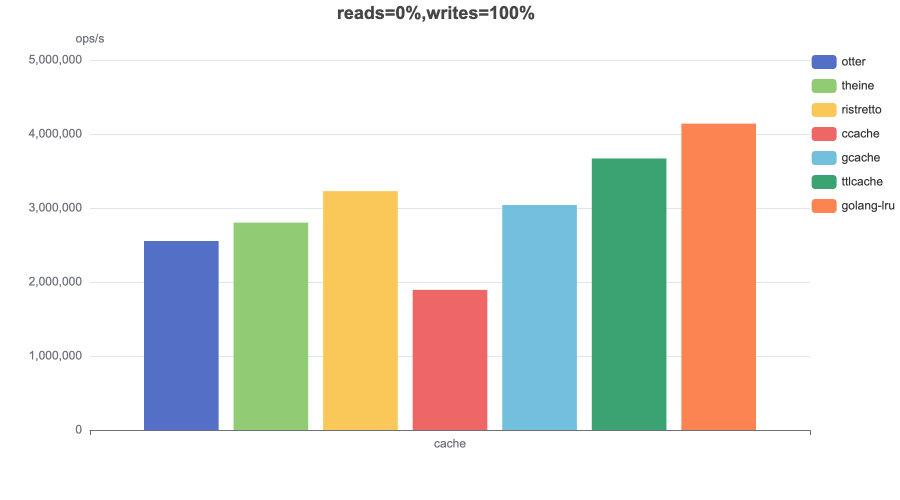
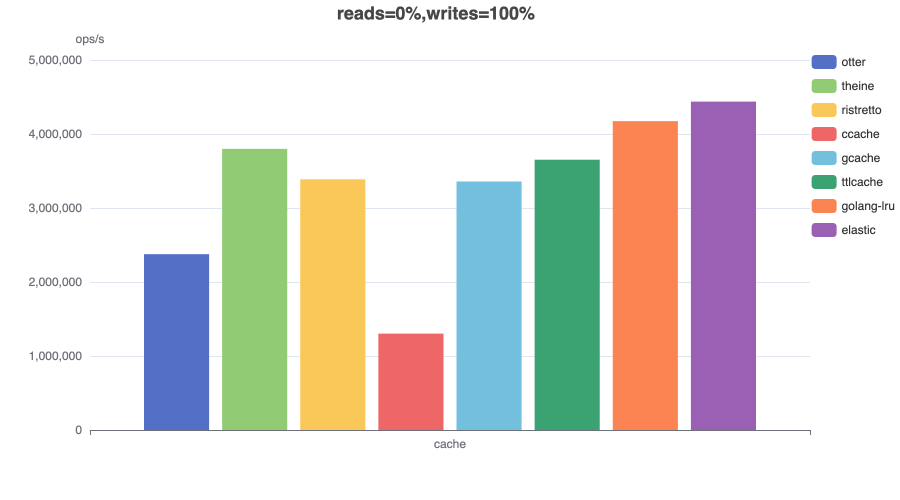
Added a test for elastic go-freelru cache

diff --git a/client/elastic.go b/client/elastic.go
@@ -1,0 +1,43 @@
+package client
+
+import (
+	"time"
+
+	"github.com/cespare/xxhash/v2"
+	"github.com/elastic/go-freelru"
+)
+
+type Elastic[V any] struct {
+	client freelru.Cache[string, V]
+}
+
+// more hash function in https://github.com/elastic/go-freelru/blob/main/bench/hash.go
+func hashStringXXHASH(s string) uint32 {
+	return uint32(xxhash.Sum64String(s)) //nolint:golint,gosec,gocritic
+}
+
+func (c *Elastic[V]) Init(capacity int) {
+	client, err := freelru.NewSynced[string, V](uint32(capacity), hashStringXXHASH) //nolint:golint,gosec,gocritic
+	if err != nil {
+		panic(err)
+	}
+	client.SetLifetime(1 * time.Hour)
+	c.client = client
+}
+
+func (c *Elastic[V]) Name() string {
+	return "elastic"
+}
+
+func (c *Elastic[V]) Get(key string) (V, bool) {
+	return c.client.Get(key)
+}
+
+func (c *Elastic[V]) Set(key string, value V) {
+	c.client.Add(key, value)
+}
+
+func (c *Elastic[V]) Close() {
+	c.client.Purge()
+	c.client = nil
+}

diff --git a/client/ristretto.go b/client/ristretto.go
@@ -4,14 +4,15 @@ import (
 	"time"
 
 	"github.com/dgraph-io/ristretto"
+	"github.com/dgraph-io/ristretto/z"
 )
 
-type Ristretto[K comparable, V any] struct {
-	client *ristretto.Cache
+type Ristretto[K z.Key, V any] struct {
+	client *ristretto.Cache[K, V]
 }
 
 func (c *Ristretto[K, V]) Init(capacity int) {
-	client, err := ristretto.NewCache(&ristretto.Config{
+	client, err := ristretto.NewCache[K, V](&ristretto.Config[K, V]{
 		NumCounters:        int64(capacity * 10),
 		MaxCost:            int64(capacity),
 		BufferItems:        64,
@@ -28,12 +29,7 @@ func (c *Ristretto[K, V]) Name() string {
 }
 
 func (c *Ristretto[K, V]) Get(key K) (V, bool) {
-	v, ok := c.client.Get(key)
-	if ok {
-		return v.(V), true
-	}
-	var zero V
-	return zero, false
+	return c.client.Get(key)
 }
 
 func (c *Ristretto[K, V]) Set(key K, value V) {

diff --git a/throughput/cmd/main.go b/throughput/cmd/main.go
@@ -46,7 +46,10 @@ func run(path, dir string) error {
 	}
 
 	workloadToCaches := make(map[string][]cacheInfo)
-	for _, line := range lines[3 : len(lines)-2] {
+	for _, line := range lines {
+		if !strings.Contains(line, "BenchmarkCache") {
+			continue
+		}
 		fields := strings.Fields(line)
 		opsPerSec, err := strconv.Atoi(fields[4])
 		if err != nil {

diff --git a/memory/main.go b/memory/main.go
@@ -94,7 +94,7 @@ func newOtter(capacity int) {
 }
 
 func newRistretto(capacity int) {
-	cache, err := ristretto.NewCache(&ristretto.Config{
+	cache, err := ristretto.NewCache[string, string](&ristretto.Config[string, string]{
 		NumCounters:        10 * int64(capacity),
 		MaxCost:            int64(capacity),
 		BufferItems:        64,

diff --git a/throughput/bench_test.go b/throughput/bench_test.go
@@ -32,6 +32,7 @@ var (
 		&client.Gcache[string, string]{},
 		&client.TTLCache[string, string]{},
 		&client.GolangLRU[string, string]{},
+		&client.Elastic[string]{},
 	}
 )
 
